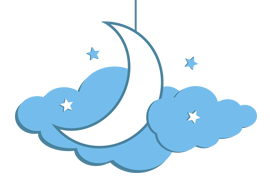
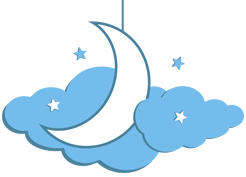
Correcciones
Corregidos:
- City6
- A8, B8, City8.

diff --git a/assets/css/datablock.css b/assets/css/datablock.css
@@ -379,11 +379,14 @@ span {
   margin-top: 5px;
   margin-left: 20px;
 }
+#datablock_a_6,
+#datablock_city_6 {
+  padding-top: 0;
+}
 #datablock_a_6 img,
 #datablock_city_6 img {
   display: block;
   margin: 0 auto;
-  width: 270px;
 }
 #datablock_a_6 .box,
 #datablock_city_6 .box {
@@ -449,7 +452,7 @@ span {
 #datablock_city_8 img {
   display: block;
   margin: 0 auto;
-  margin-top: 20px;
+  margin-top: 0px;
 }
 #datablock_a_8 .box,
 #datablock_b_8 .box,
@@ -2835,6 +2838,9 @@ span {
 }
 #datablock_b_5 .black {
   color: #363636;
+}
+#datablock_b_6 {
+  padding-top: 0;
 }
 #datablock_b_6 .box {
   text-align: center;

diff --git a/assets/css/datablock.less b/assets/css/datablock.less
@@ -468,10 +468,11 @@ p, span {
 
 
 #datablock_a_6, #datablock_city_6 {
+    padding-top: 0;
+
     img  {
         display: block;
         margin: 0 auto;
-        width: 270px;
     }
 
     .box {
@@ -540,7 +541,7 @@ p, span {
     img {
         display: block;
         margin: 0 auto;
-        margin-top: 20px;
+        margin-top: 0px;
     }
 
     .box {
@@ -2884,6 +2885,7 @@ p, span {
 }
 
 #datablock_b_6 {
+padding-top: 0;
     .box {
         text-align: center;
         margin: 0 auto;
@@ -4539,6 +4541,7 @@ p, span {
 }
 
 #datablock_city_6 {
+
     .big {
         font-size: 43px;
     }

diff --git a/index.html b/index.html
@@ -102,6 +102,11 @@
             </div>
             
             <p class="white">¡Cuentas claras conservan la amistad!</p>
+            
+            <div class="social">
+                <a class="facebook" href="#"></a>
+                <a class="twitter" href="#"></a>
+            </div>
         </div>
 
         <div class="datablock one-slot color3" id="datablock_b_9">

diff --git a/indexa.html b/indexa.html
@@ -86,6 +86,11 @@
             </div>
             
             <p class="white">¡Más vale tarde que nunca!</p>
+            
+            <div class="social">
+                <a class="facebook" href="#"></a>
+                <a class="twitter" href="#"></a>
+            </div>
         </div>
 
         <div class="datablock one-slot color5" id="datablock_a_9">

diff --git a/indexc.html b/indexc.html
@@ -108,6 +108,11 @@
                     los amigos les prestan
                 </p>
             </div>
+            
+            <div class="social">
+                <a class="facebook" href="#"></a>
+                <a class="twitter" href="#"></a>
+            </div>
         </div>
 
         <div class="datablock one-slot color5" id="datablock_city_9">
